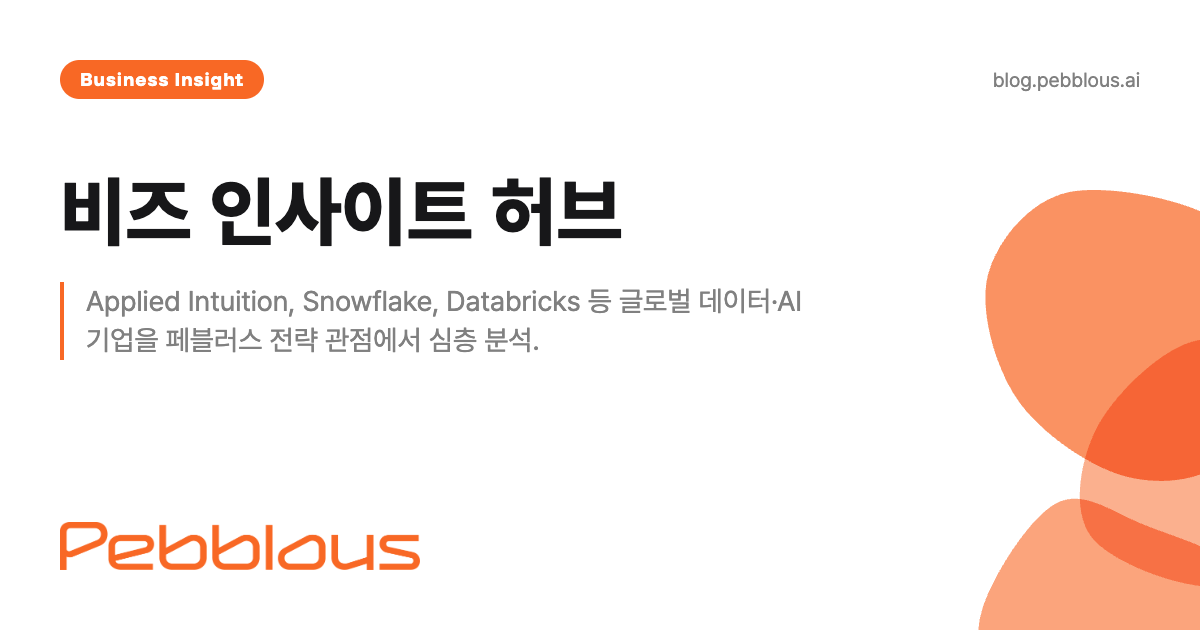
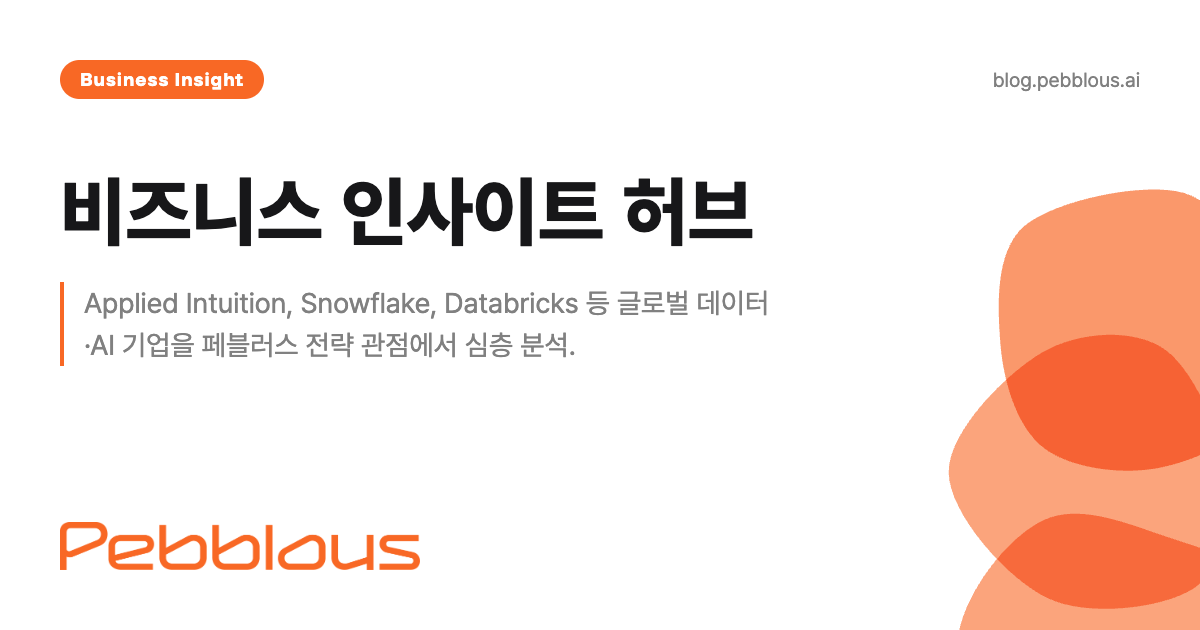
chore(titles): 제목·메타 일괄 교정 1건/2필드 (제목 검토 콘솔)\n\n- bizreport-hub-ko:\n    제목: 비즈 인사이트 허브 — 데이터·AI 거인들을 페블러스 전략 관점으로 해석 → 비즈니스 인사이트 허브\n    OG 이미지 제목: (없음) → 비즈니스 인사이트 허브

diff --git a/project/BizReport/ko/index.html b/project/BizReport/ko/index.html
@@ -11,7 +11,8 @@
     <meta http-equiv="content-language" content="ko">
     <meta name="twitter:site" content="@pebblous_official">
 
-    <title>비즈 인사이트 허브 — 데이터·AI 거인들을 페블러스 전략 관점으로 해석 | 페블러스</title>
+    <title>비즈니스 인사이트 허브 | 페블러스</title>
+    <meta name="og-image-title" content="비즈니스 인사이트 허브">
     <meta name="description" content="Applied Intuition, Snowflake, Databricks 등 글로벌 데이터·AI 기업을 페블러스 전략 관점에서 심층 분석합니다. 협력 가능성, 구조적 해자, 페블러스 차별화 포인트를 도출하는 비즈니스 인텔리전스 시리즈.">
     <meta name="keywords" content="비즈 인사이트, Biz Insight, Applied Intuition, Snowflake, Databricks, 기업 분석, 페블러스, Pebblous, DataClinic, Physical AI, 데이터 전략, 협력 전략, B2B 분석">
 
@@ -21,7 +22,7 @@
     <link rel="alternate" hreflang="x-default" href="https://blog.pebblous.ai/project/BizReport/ko/">
 
     <!-- Open Graph -->
-    <meta property="og:title" content="비즈 인사이트 허브 — 데이터·AI 거인들을 페블러스 전략 관점으로 해석">
+    <meta property="og:title" content="비즈니스 인사이트 허브">
     <meta property="og:description" content="Applied Intuition, Snowflake, Databricks 등 글로벌 데이터·AI 기업을 페블러스 전략 관점에서 심층 분석. 협력 가능성과 구조적 해자를 탐구합니다.">
     <meta property="og:type" content="website">
     <meta property="og:url" content="https://blog.pebblous.ai/project/BizReport/ko/">
@@ -34,7 +35,7 @@
 
     <!-- Twitter Card -->
     <meta name="twitter:card" content="summary_large_image">
-    <meta name="twitter:title" content="비즈 인사이트 허브 — 데이터·AI 거인들을 페블러스 전략 관점으로 해석">
+    <meta name="twitter:title" content="비즈니스 인사이트 허브">
     <meta name="twitter:description" content="Applied Intuition, Snowflake, Databricks 등 글로벌 데이터·AI 기업을 페블러스 전략 관점에서 심층 분석.">
     <meta name="twitter:image" content="https://blog.pebblous.ai/project/BizReport/ko/image/index.png">
 
@@ -183,9 +184,9 @@
 
         document.addEventListener('DOMContentLoaded', async function() {
             const config = {
-                mainTitle: "비즈 인사이트 허브",
+                mainTitle: "비즈니스 인사이트 허브",
                 subtitle: "데이터·AI 거인들을 페블러스 전략 관점으로 해석하는 심층 분석 시리즈",
-                pageTitle: "비즈 인사이트 허브 — 데이터·AI 거인들을 페블러스 전략 관점으로 해석 | 페블러스",
+                pageTitle: "비즈니스 인사이트 허브 | 페블러스",
                 publishDate: "2026년 4월",
                 publisher: "(주)페블러스 데이터 커뮤니케이션팀",
                 defaultTheme: "light",
